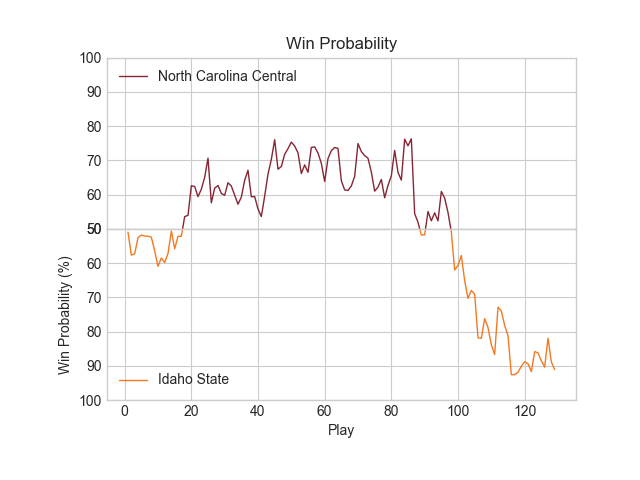
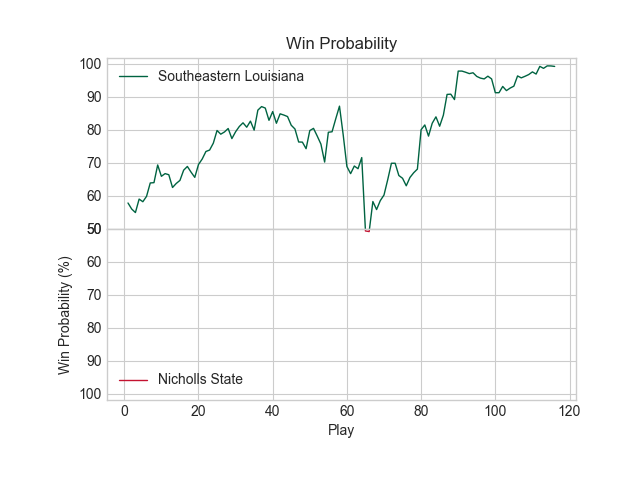
Fix wp plot

diff --git a/win_probability.py b/win_probability.py
@@ -173,40 +173,40 @@ def get_win_probability(down, distance, position, margin, seconds_left_game, sec
         return 1 if margin > 0 else (0 if margin < 0 else 0.5)
 
     if play_type == "PAT":
-        prob_if_success = get_win_probability(1, 10, 75, -(margin + 1), seconds_left_game, seconds_left_half, half,
-                                              1-had_first_possession, -elo_diff_time, 'RUN')
-        prob_if_fail = get_win_probability(1, 10, 75, -margin, seconds_left_game, seconds_left_half, half,
-                                           1-had_first_possession, -elo_diff_time, 'RUN')
-        prob_if_return = get_win_probability(1, 10, 75, -(margin - 2), seconds_left_game, seconds_left_half, half,
-                                             1-had_first_possession, -elo_diff_time, 'RUN')
+        prob_if_success = abs(get_win_probability(1, 10, 75, -(margin + 1), seconds_left_game, seconds_left_half, half,
+                                              1-had_first_possession, -elo_diff_time, 'RUN'))
+        prob_if_fail = abs(get_win_probability(1, 10, 75, -margin, seconds_left_game, seconds_left_half, half,
+                                           1-had_first_possession, -elo_diff_time, 'RUN'))
+        prob_if_return = abs(get_win_probability(1, 10, 75, -(margin - 2), seconds_left_game, seconds_left_half, half,
+                                             1-had_first_possession, -elo_diff_time, 'RUN'))
         return 1 - (((721 / 751) * prob_if_success) + ((27 / 751) * prob_if_fail) + ((3 / 751) * prob_if_return))
     if play_type == 'TWO_POINT':
-        prob_if_success = get_win_probability(1, 10, 75, -(margin + 2), seconds_left_game, seconds_left_half, half,
-                                              1-had_first_possession, -elo_diff_time, 'RUN')
-        prob_if_fail = get_win_probability(1, 10, 75, -margin, seconds_left_game, seconds_left_half, half,
-                                           1-had_first_possession, -elo_diff_time, 'RUN')
-        prob_if_return = get_win_probability(1, 10, 75, -(margin - 2), seconds_left_game, seconds_left_half, half,
-                                             1-had_first_possession, -elo_diff_time, 'RUN')
+        prob_if_success = abs(get_win_probability(1, 10, 75, -(margin + 2), seconds_left_game, seconds_left_half, half,
+                                              1-had_first_possession, -elo_diff_time, 'RUN'))
+        prob_if_fail = abs(get_win_probability(1, 10, 75, -margin, seconds_left_game, seconds_left_half, half,
+                                           1-had_first_possession, -elo_diff_time, 'RUN'))
+        prob_if_return = abs(get_win_probability(1, 10, 75, -(margin - 2), seconds_left_game, seconds_left_half, half,
+                                             1-had_first_possession, -elo_diff_time, 'RUN'))
         return 1 - (((301 / 751) * prob_if_success) + ((447  / 751) * prob_if_fail) + ((3 / 751) * prob_if_return))
     if play_type == 'KICKOFF_NORMAL':
-        return 1 - get_win_probability(1, 10, 75, -margin, seconds_left_game, seconds_left_half, half,
-                                       1-had_first_possession, -elo_diff_time, 'RUN')
+        return 1 - abs(get_win_probability(1, 10, 75, -margin, seconds_left_game, seconds_left_half, half,
+                                       1-had_first_possession, -elo_diff_time, 'RUN'))
     if play_type == 'KICKOFF_SQUIB':
         slh = max(seconds_left_half - 5, 0)
         slg = ((2 - half) * 840) + slh
-        return 1 - get_win_probability(1, 10, 65, -margin, slg, slh, half, 1-had_first_possession, -elo_diff_time,
-                                       'RUN')
+        return 1 - abs(get_win_probability(1, 10, 65, -margin, slg, slh, half, 1-had_first_possession, -elo_diff_time,
+                                       'RUN'))
     if play_type == 'KICKOFF_ONSIDE':
         slh = max(seconds_left_half - 3, 0)
         slg = ((2 - half) * 840) + slh
-        prob_if_success = get_win_probability(1, 10, 55, margin, slg, slh, half, 1-had_first_possession, elo_diff_time,
-                                              'RUN')
-        prob_if_fail = 1-get_win_probability(1, 10, 45, -margin, slg, slh, half, 1-had_first_possession, -elo_diff_time,
-                                             'RUN')
+        prob_if_success = abs(get_win_probability(1, 10, 55, margin, slg, slh, half, 1-had_first_possession, elo_diff_time,
+                                              'RUN'))
+        prob_if_fail = 1-abs(get_win_probability(1, 10, 45, -margin, slg, slh, half, 1-had_first_possession, -elo_diff_time,
+                                             'RUN'))
         slhr = max(seconds_left_half - 10, 0)
         slgr = ((2 - half) * 840) + slh
-        prob_if_return = 1-get_win_probability(1, 10, 75, margin - 6, slgr, slhr, half, 1-had_first_possession,
-                                               -elo_diff_time, 'PAT')
+        prob_if_return = 1-abs(get_win_probability(1, 10, 75, margin - 6, slgr, slhr, half, 1-had_first_possession,
+                                               -elo_diff_time, 'PAT'))
         return ((140 / 751) * prob_if_success) + ((611 / 751) * prob_if_fail) + ((1 / 751) * prob_if_return)
 
     data["had_first_possession"] = [had_first_possession]
@@ -269,7 +269,7 @@ def calculate_win_probability_gist(data):
     df_data = pd.DataFrame.from_dict(data)
     win_probability = model_xgb.predict(df_data)
 
-    return float(win_probability)*100
+    return float(win_probability)
     
     
 """

diff --git a/gist_data.py b/gist_data.py
@@ -204,19 +204,13 @@ def iterate_through_game_gist(home_team, away_team, home_color, away_color):
                 # Calculate win probability
                 cur_win_probability = abs(get_win_probability(down, distance, position, margin, seconds_left_game,
                                                           seconds_left_half, half, had_first_possession,
-                                                          elo_diff_time, play_type))
-                if row[5] == "home" and "KICKOFF" not in row[12] and row[12] != "PAT" and row[12] != "TWO POINT":
+                                                          elo_diff_time, play_type)) * 100
+                if row[5] == "home":
                     home_win_probability.append(cur_win_probability)
                     away_win_probability.append(100 - cur_win_probability)
-                elif row[5] == "home" and ("KICKOFF" in row[12] or row[12] != "PAT" or row[12] != "TWO POINT"):
+                else:
                     home_win_probability.append(100 - cur_win_probability)
                     away_win_probability.append(cur_win_probability)
-                elif row[5] == "away" and "KICKOFF" not in row[12] and row[12] != "PAT" and row[12] != "TWO POINT":
-                    home_win_probability.append(100 - cur_win_probability)
-                    away_win_probability.append(cur_win_probability)
-                elif row[5] == "away" and ("KICKOFF" in row[12] or row[12] != "PAT" or row[12] != "TWO POINT"):
-                    home_win_probability.append(cur_win_probability)
-                    away_win_probability.append(100 - cur_win_probability)
                     
                 if int(quarter) > 4:
                     overtime_flag = 1
